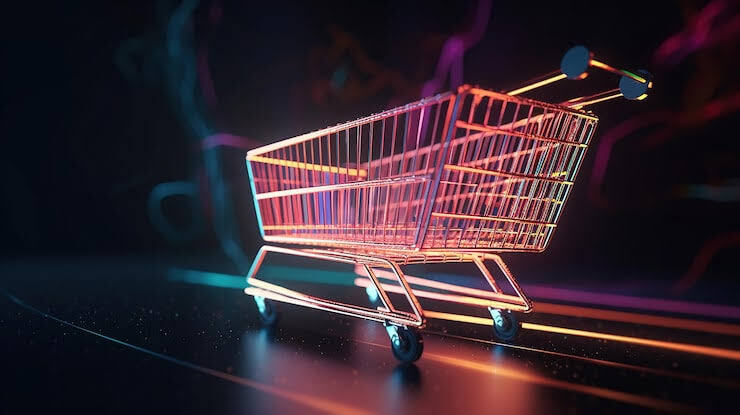
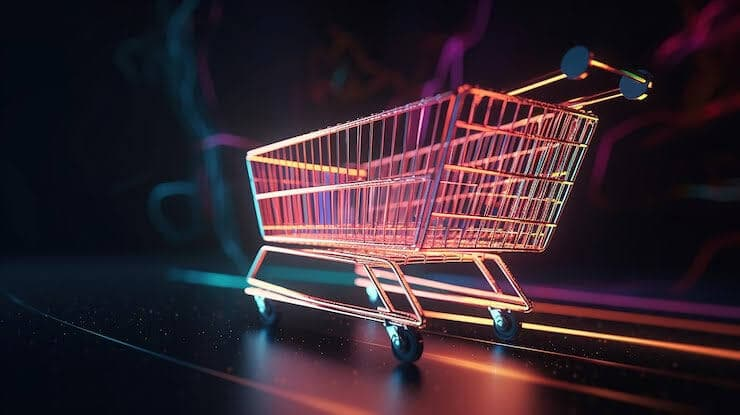
new update

diff --git a/index.html b/index.html
@@ -97,8 +97,10 @@
                     <i class="fa-brands fa-github"></i>
                 </a>
                 <div class="div-half">
+                <a href="https://amruta847.github.io/Amazon-clone/"
+                    target="_blank">
                     <img src="images.jpg" alt="Amazon Clone">
-                    
+                </a>    
                 </div>
                 <div class="middle-box">
                     <h2>Amazon Clone</h2>
@@ -117,7 +119,10 @@
                     <i class="fa-brands fa-github"></i>
                 </a>
                 <div class="div-half">
-                    <img src="cuur-con.png" alt="Amazon Clone">
+                    <a href="https://amruta847.github.io/Currency-convertor/"
+                        target="_blank">
+                        <img src="cuur-con.jpg" alt="Currency Converter">
+                    </a>
                 </div>
                 <div class="middle-box">
                     <h2>Currency-Convertor</h2>
@@ -135,7 +140,10 @@
                     <i class="fa-brands fa-github"></i>
                 </a>
                 <div class="div-half">
-                    <img src="tic.png" alt="Amazon Clone">
+                    <a href="https://github.com/Amruta847/Tic-Tac_Toe"
+                        target="_blank">
+                        <img src="tic.jpg" alt="Tic Tac Toe">
+                    </a>
                 </div>
                 <div class="middle-box">
                     <h2>Tic-Tac-Toe</h2>
@@ -285,10 +293,10 @@
                 </div>
                 <div class="pdf-name">Amruta_resume.pdf</div>
                 <div class="pdf-links">
-                    <a href="resume.pdf" target="_blank">
+                    <a href="Resume.pdf" target="_blank">
                     <i class="fa-solid fa-arrow-up-right-from-square"></i>Open
                     </a>
-                    <a href="resume.pdf" download>
+                    <a href="Resume.pdf" download>
                     <i class="fa-solid fa-download"></i>
                     Download
                     </a>
@@ -308,7 +316,7 @@
     <section id="contact"> 
         <div class="details">
             <div class="contact-pic">
-                <img src="myImage.png" alt="picc">
+                <img src="myImage.jpg" alt="picc">
             </div> 
             <div class="description">
                 Follow me on LinkedIn and GitHub to stay updated with my latest work,

diff --git a/style.css b/style.css
@@ -1085,3 +1085,11 @@ main,
     color:#a15d0a;
     font-size: 1rem;
 }
+.div-half a {
+    display: block;
+    width: 100%;
+    height: 100%;
+}
+.div-half::after {
+    pointer-events: none;
+}
